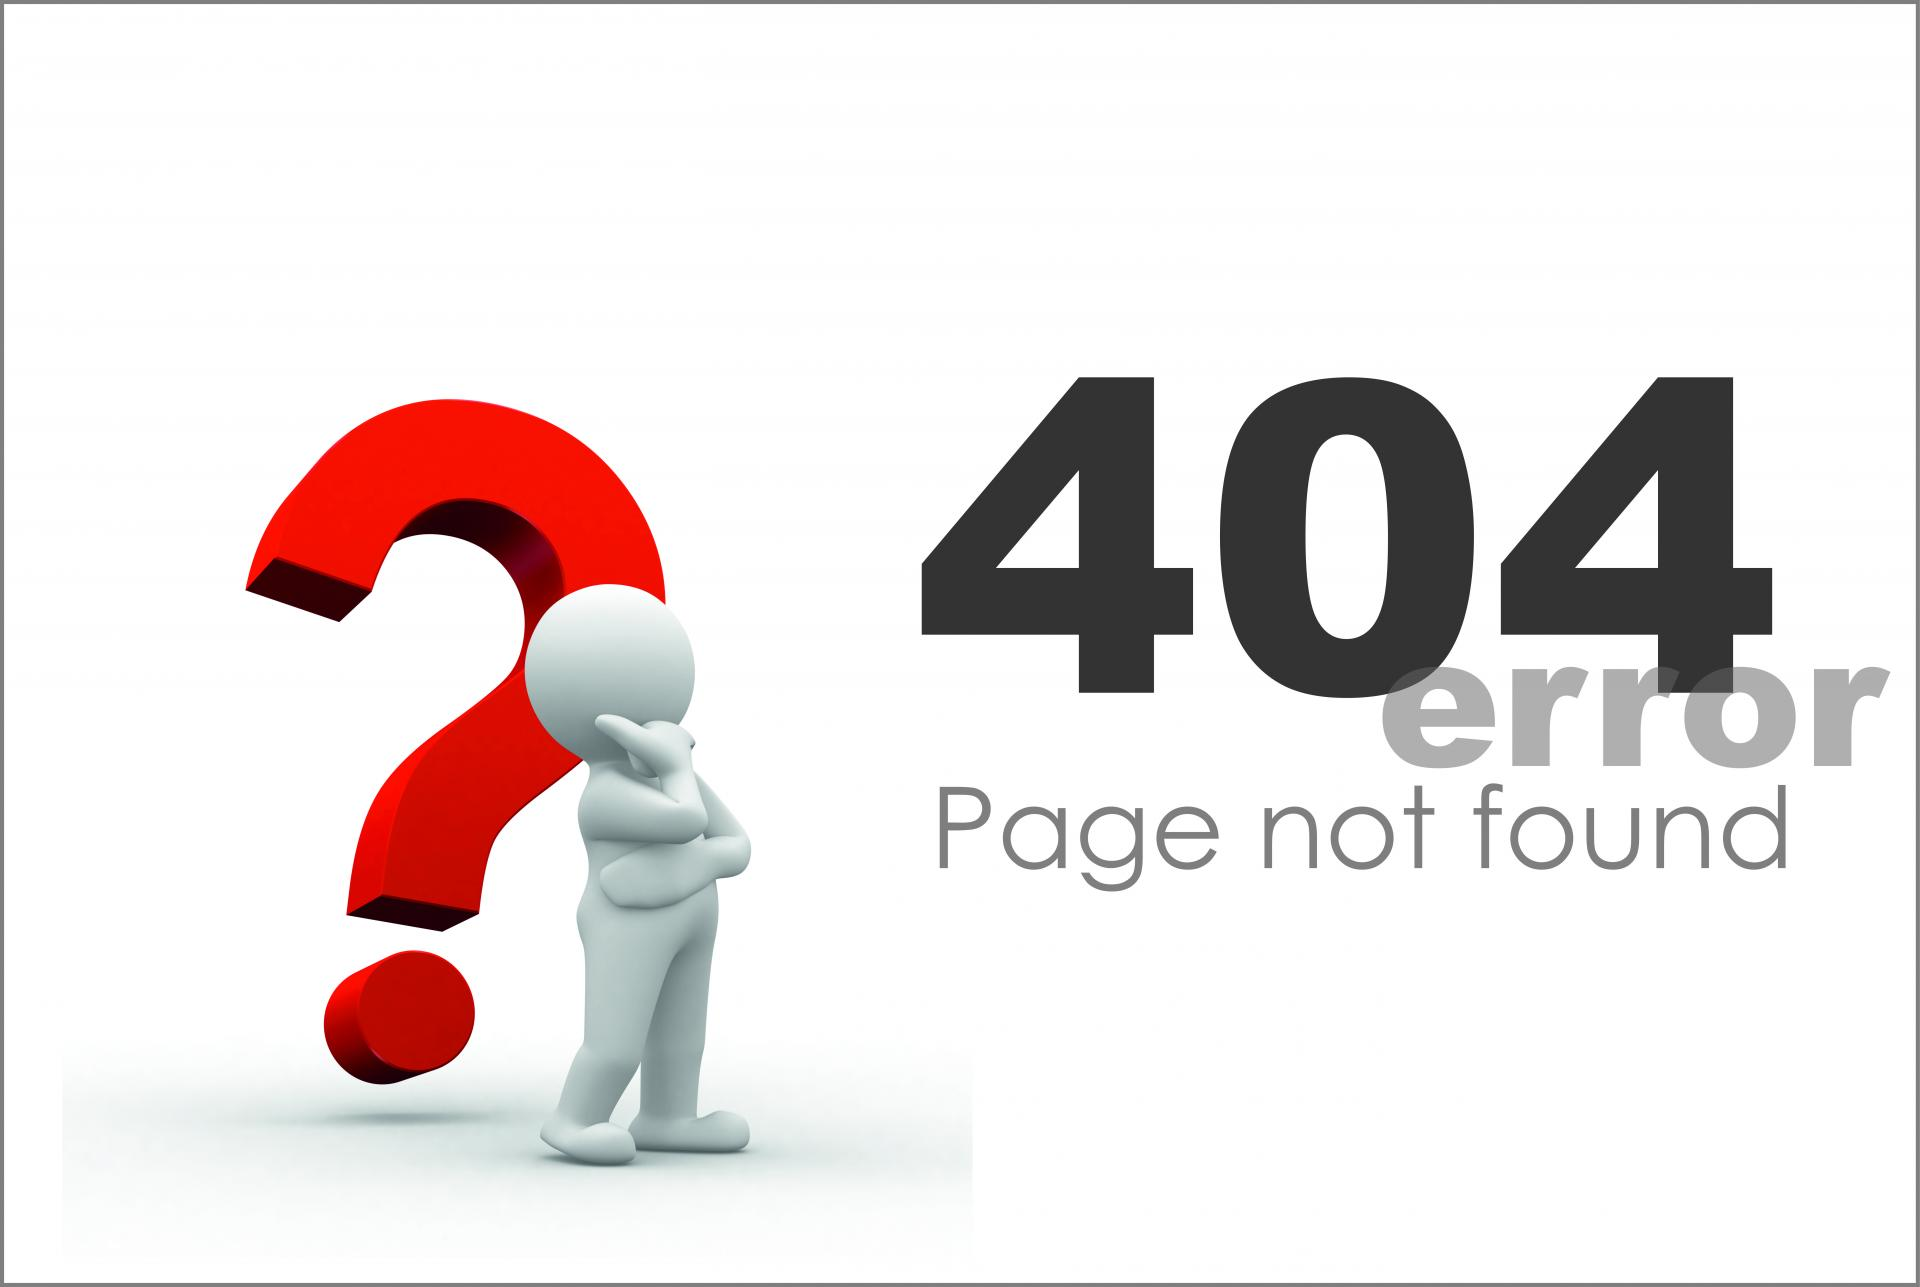
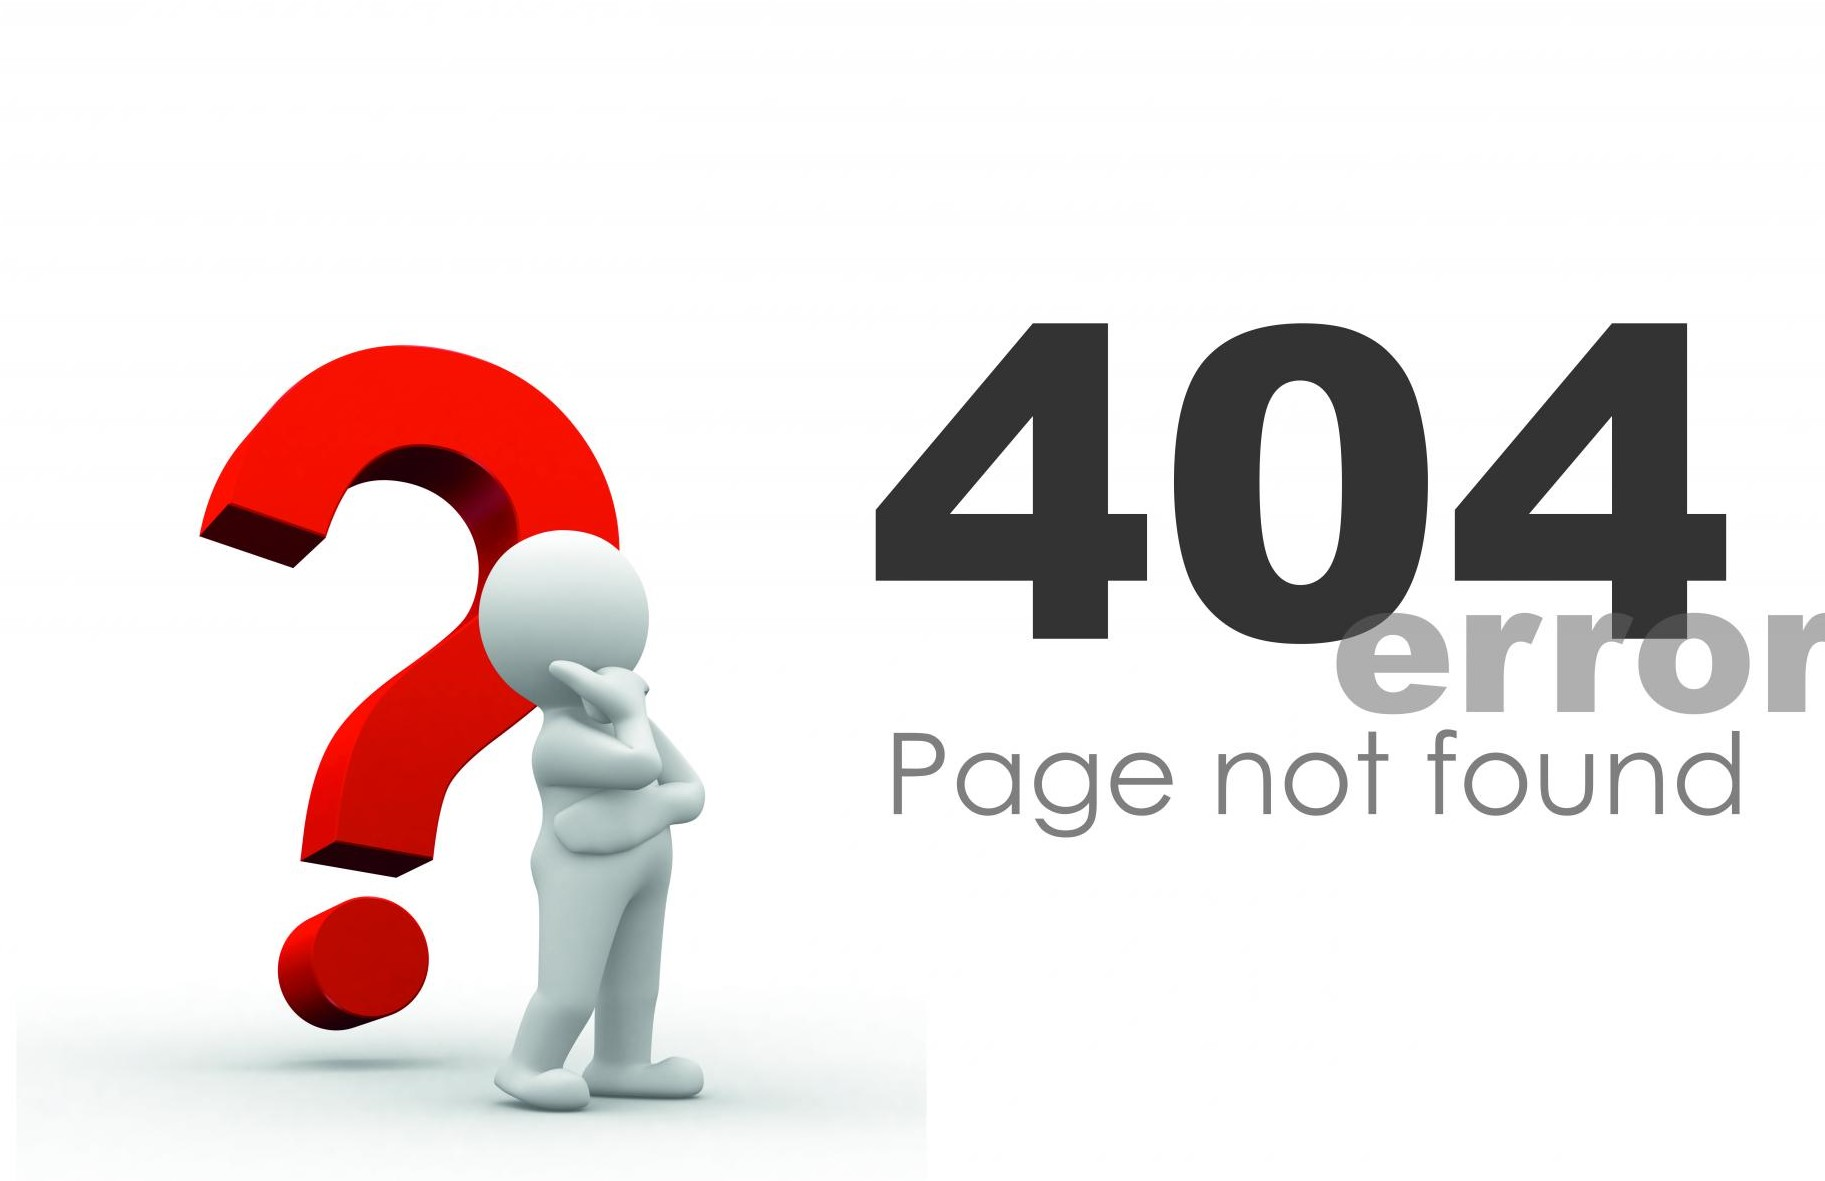
edit readme

diff --git a/src/Components/Home/Home.js b/src/Components/Home/Home.js
@@ -28,7 +28,7 @@ const Home = () => {
             <br />
             < hr />
             <div className='mt-5'>
-                <h1 className='fw-bold'>Products </h1>
+                <h1 className='fw-bold'>Customer Reviews </h1>
                 <div className='products-container'>
                     {
                         (products.slice(0, 3)).map(product => <Cart key={product.id} product={product}></Cart>)
@@ -36,7 +36,7 @@ const Home = () => {
                 </div>
 
                 <nav className=' btn-style btn mt-3 mb-5'>
-                    <Link to="/reviews">Show All Products</Link>
+                    <Link to="/reviews">Show All Reviews</Link>
                 </nav>
 
             </div>

diff --git a/src/Components/Cart/Cart.js b/src/Components/Cart/Cart.js
@@ -2,12 +2,14 @@ import React from 'react';
 import './Cart.css'
 
 const Cart = (props) => {
-    const { price, img, rating, commend } = props.product;
+    const { price, img, rating, commend, personName } = props.product;
     return (
         <div className='container'>
             <div className='cart-style p-3 shadow-lg'>
                 <img width="50%" src={img} alt="" />
+
                 <h5 className='mt-5'>{commend}</h5>
+                <h5>Name : {personName}</h5>
                 <p>Price : {price}</p>
                 <h4 className='mt-3'>Rating : <span className='text-color'>{rating} </span>*</h4>
             </div>

diff --git a/src/Components/Reviews/Reviews.js b/src/Components/Reviews/Reviews.js
@@ -7,7 +7,7 @@ const Reviews = () => {
     const [products, setProducts] = useProducts();
     return (
         <div>
-            <h1 className='fw-bold mt-4'>Products </h1>
+            <h1 className='fw-bold mt-4 '>All products Reviews </h1>
 
             <div className="products-container">
                 {

diff --git a/src/Components/NotFound/NotFond.css b/src/Components/NotFound/NotFond.css
@@ -1,5 +1,5 @@
 .not-font-style img {
-    width: 100%;
-    height: 1000px;
-
+    margin-top: 50px;
+    height: 500px;
+    border-radius: 20px;
 }

diff --git a/src/Components/Cart/Cart.css b/src/Components/Cart/Cart.css
@@ -1,6 +1,6 @@
 .cart-style {
     border: 4px solid rgb(57, 3, 46);
-    height: 425px;
+    height: 460px;
     border-radius: 20px;
 }
 

diff --git a/README.md b/README.md
@@ -3,3 +3,20 @@
 ## live side link :
 
 
+Markup : <details>
+           <summary>Point 1</summary>
+           <p>First of all I connect my header file in app.js and install react router.and link our react router.</p>
+         </details>
+Markup : <details>
+           <summary>Point 2</summary>
+           <p>Next we call the data and flip my header file and add to the cart. Review cart add full data and header cart add 3 data only and set a button then connect review page</p>
+         </details>
+Markup : <details>
+           <summary>Point 3</summary>
+           <p>Next dashboard add some chart and this chart style </p>
+         </details>
+Markup : <details>
+           <summary>Point 4</summary>
+           <p>Last of all, we and the question and 404 pages. And style this components</p>
+         </details>
+
